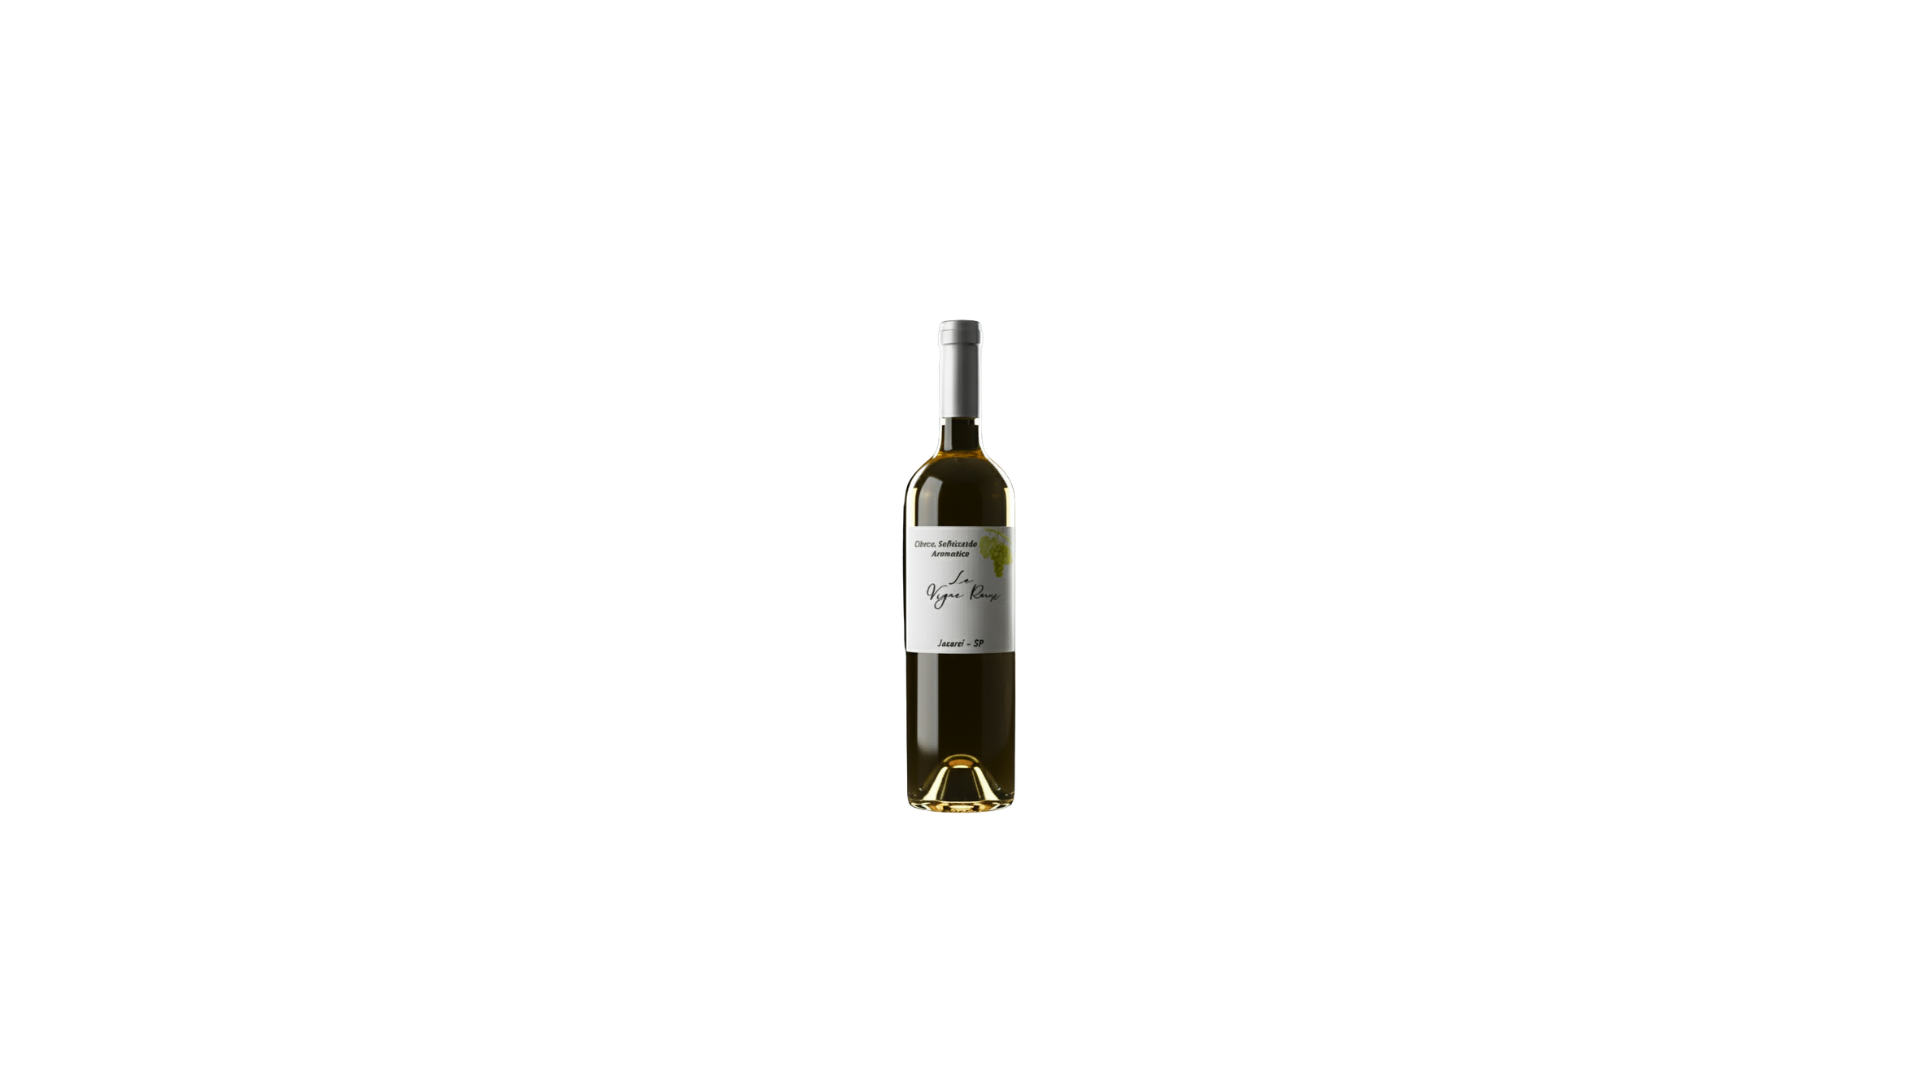
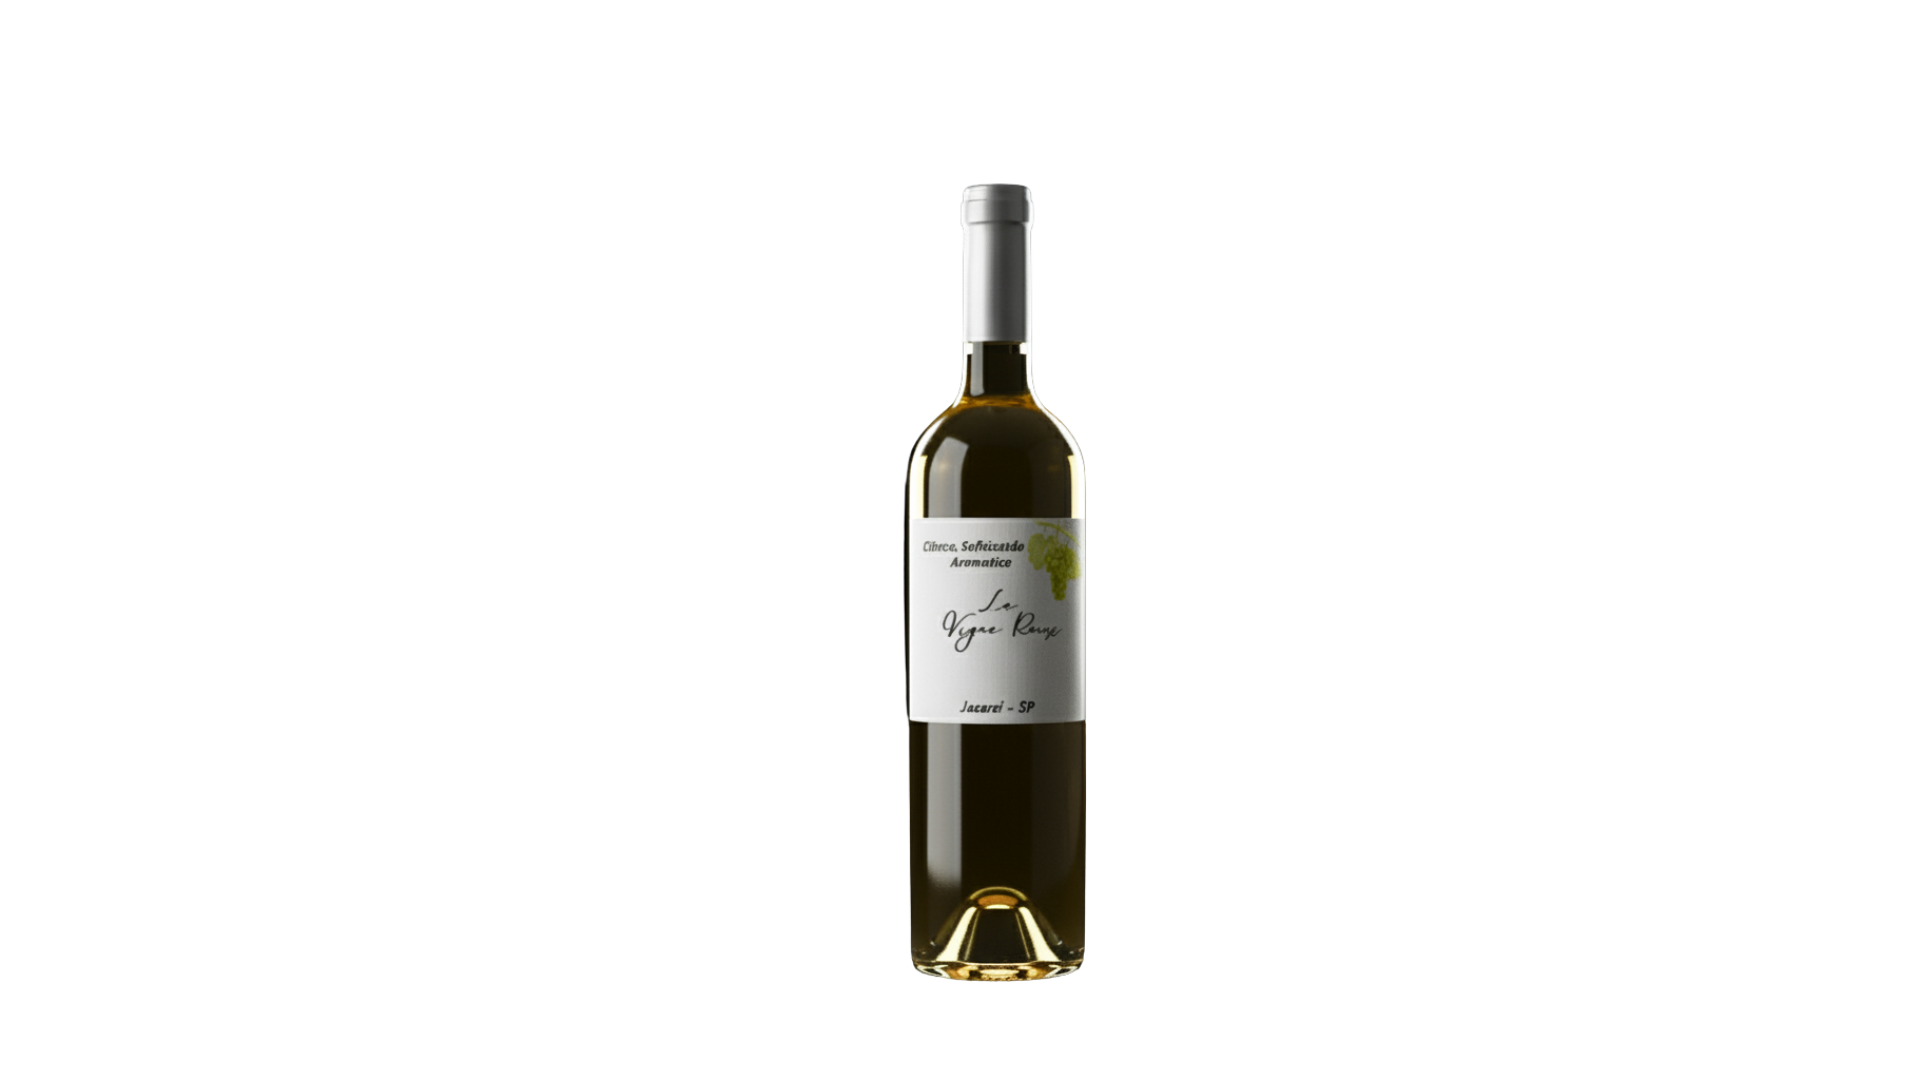
Feat: mudança na estetica dos produtos com grid

Changed region(s): [[0.4688, 0.1528, 0.5625, 0.9167]]

diff --git a/src/style/index.css b/src/style/index.css
@@ -1,6 +1,6 @@
-/* ------------------------------ */
-/* RESET E BASE                   */
-/* ------------------------------ */
+
+
+
 
 html, body {
   margin: 0;
@@ -16,10 +16,6 @@ body {
   font-family: Arial, sans-serif;
 }
 
-
-/* ------------------------------ */
-/* HEADER / NAVBAR                */
-/* ------------------------------ */
 
 header {
   display: flex;
@@ -57,7 +53,7 @@ header {
   transition: color .3s;
 }
 
-/* efeito no link */
+
 .nav-link::after {
   content: "";
   position: absolute;
@@ -84,9 +80,6 @@ header {
 }
 
 
-/* ------------------------------ */
-/* PARALLAX                       */
-/* ------------------------------ */
 
 .parallax {
   min-height: 100vh;
@@ -98,9 +91,9 @@ header {
 }
 
 
-/* ------------------------------ */
-/* HOME LOGO CENTRAL              */
-/* ------------------------------ */
+
+
+
 
 .container-img {
   display: flex;
@@ -119,35 +112,55 @@ header {
 
 .gridparallax {
   display: grid;
-  grid-template-columns: repeat(2, 1fr);
-  gap: 40px;
-  padding: 80px 10%;
+  
+  grid-template-columns: repeat(auto-fit, minmax(300px, 1fr));
+  gap: 60px; 
+  padding: 80px 5%; 
   background: white;
   justify-items: center;
 }
 
 .card {
-  width: 100%;
-  max-width: 350px;
-  aspect-ratio: 1 / 1.5;
+  width: 200%;
+  
+  max-width: 700px;
+  
+  aspect-ratio: 1 / 1.6; 
   display: flex;
   justify-content: center;
   align-items: center;
-  transition: transform .4s ease;
-  border-radius: 10px;
+  transition: transform 0.4s ease;
+  position: relative; 
+  overflow: hidden; 
+}
+
+figure {
+  margin: 0;
+  padding: 0;
+  width: 100%;
+  height: 100%;
+  display: flex;
+  justify-content: center;
+  align-items: center;
 }
 
 .card img.card-img-top {
-  width: 300%;
-  height: 300%;
-  object-fit: contain;
-  filter: drop-shadow(5px 5px 15px rgba(0, 0, 0, 1));
+  height: 100%;
+  width: auto;
+  max-width: 100%; 
+  object-fit: contain; 
+  filter: drop-shadow(5px 10px 15px rgba(0, 0, 0, 0.5));
+  transition: transform 1s ease; 
 }
 
 
 .card:hover {
-  transform: scale(1.08);
   z-index: 5;
+  cursor:grab;
+}
+
+.card:hover img.card-img-top {
+  transform: scale(1.5); 
 }
 
 @media (max-width: 1100px) {
@@ -180,7 +193,7 @@ header {
 
 @media (max-width: 768px) {
 
-  /* Logo central */
+  
   .container-img {
     height: auto;
     padding: 40px 20px;
@@ -191,7 +204,7 @@ header {
     max-height: 40vh;
   }
 
-  /* Grid vira 1 coluna */
+  
   .gridparallax {
     grid-template-columns: 1fr;
   }

diff --git a/src/index.html b/src/index.html
@@ -34,7 +34,7 @@
 
     <div class="gridparallax">
         <div class="card">
-            <figure><img src="static/img/Noel-rosé.png" class="card-img-top"></figure>
+            <figure><img src="static/img/Noel-rose.png" class="card-img-top"></figure>
         </div>
         <div class="card">
             <figure><img src="static/img/Le-vigne-Bianchi.png" class="card-img-top"></figure>
@@ -43,7 +43,7 @@
             <figure><img src="static/img/Le-vigne-Rossi.png" class="card-img-top"></figure>
         </div>
         <div class="card">
-            <figure><img src="static/img/Noel-rosé.png" class="card-img-top"></figure>
+            <figure><img src="static/img/Le-vigne-rose.png" class="card-img-top"></figure>
         </div>
     </div>
 
